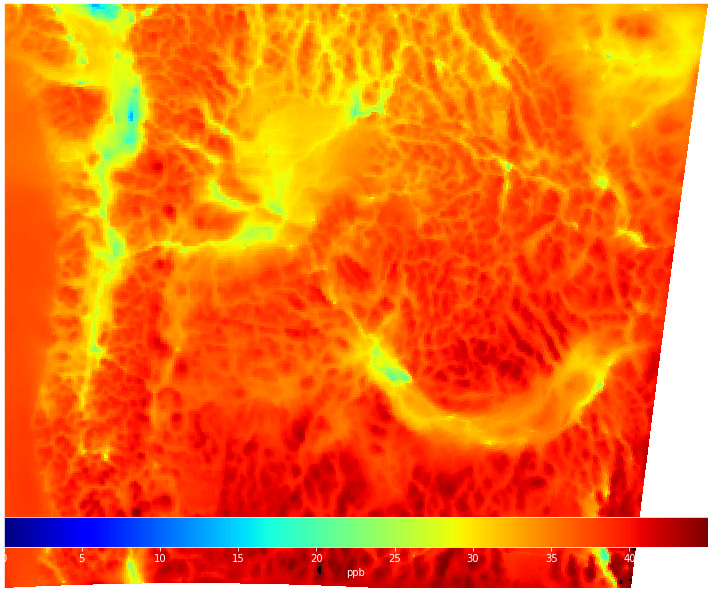
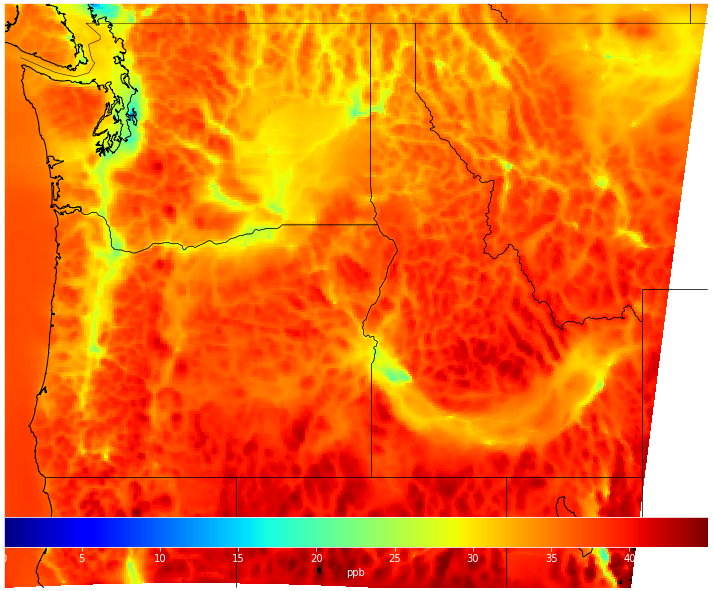
added state lines to check against folium

diff --git a/folium_files/folium_4km_ozone_pm_map.html b/folium_files/folium_4km_ozone_pm_map.html
@@ -15,7 +15,7 @@
     <style>html, body {width: 100%;height: 100%;margin: 0;padding: 0;}</style>
     <style>#map {position:absolute;top:0;bottom:0;right:0;left:0;}</style>
     
-    <style>#map_a94c8bd54dd544949774e8f7ed4713fa {
+    <style>#map_abb32fce33e84e288884179b97cc2ef9 {
         position: relative;
         width: 100.0%;
         height: 100.0%;
@@ -36,7 +36,7 @@
 </head>
 <body>    
     
-    <div class="folium-map" id="map_a94c8bd54dd544949774e8f7ed4713fa" ></div>
+    <div class="folium-map" id="map_abb32fce33e84e288884179b97cc2ef9" ></div>
 </body>
 <script>    
     
@@ -44,8 +44,8 @@
         var bounds = null;
     
 
-    var map_a94c8bd54dd544949774e8f7ed4713fa = L.map(
-        'map_a94c8bd54dd544949774e8f7ed4713fa', {
+    var map_abb32fce33e84e288884179b97cc2ef9 = L.map(
+        'map_abb32fce33e84e288884179b97cc2ef9', {
         center: [45.4072, -117.5004],
         zoom: 7,
         maxBounds: bounds,
@@ -57,7 +57,7 @@
 
     
     
-    var tile_layer_cb32f7e4808c4048a1518ae01ecba1f6 = L.tileLayer(
+    var tile_layer_08f3ff8610d74e3abf9a54f9a0753db4 = L.tileLayer(
         'https://{s}.tile.openstreetmap.org/{z}/{x}/{y}.png',
         {
         "attribution": null,
@@ -67,20 +67,20 @@
         "minZoom": 0,
         "noWrap": false,
         "subdomains": "abc"
-}).addTo(map_a94c8bd54dd544949774e8f7ed4713fa);
+}).addTo(map_abb32fce33e84e288884179b97cc2ef9);
     
-                var lat_lng_popup_e92a28c2f7144a70b2730028de02ce83 = L.popup();
+                var lat_lng_popup_4aedecfa58934eb88164832de675ada3 = L.popup();
                 function latLngPop(e) {
-                    lat_lng_popup_e92a28c2f7144a70b2730028de02ce83
+                    lat_lng_popup_4aedecfa58934eb88164832de675ada3
                         .setLatLng(e.latlng)
                         .setContent("Latitude: " + e.latlng.lat.toFixed(4) +
                                     "<br>Longitude: " + e.latlng.lng.toFixed(4))
-                        .openOn(map_a94c8bd54dd544949774e8f7ed4713fa);
+                        .openOn(map_abb32fce33e84e288884179b97cc2ef9);
                     }
-                map_a94c8bd54dd544949774e8f7ed4713fa.on('click', latLngPop);
+                map_abb32fce33e84e288884179b97cc2ef9.on('click', latLngPop);
             
     
-                var image_overlay_33e43e8c1cde4723af350119e1b894de = L.imageOverlay(
+                var image_overlay_6abd61f132eb4a4fa6aa73bd13da9554 = L.imageOverlay(
                     'https://github.com/jordan-munson/scripts/raw/master/folium_files/4km_basemap_1_O3.png',
                     [[39.81001663208008, -125.88920593261719], [49.81791305541992, -109.6165771484375]],
                     {
@@ -92,10 +92,10 @@
   "opacity": 0.5,
   "zIndex": 1
 }
-                    ).addTo(map_a94c8bd54dd544949774e8f7ed4713fa);
+                    ).addTo(map_abb32fce33e84e288884179b97cc2ef9);
             
     
-                var image_overlay_12ef3685dff44bf589b6f75e0166461d = L.imageOverlay(
+                var image_overlay_8aca03902c834f96b126ed193eb7d4c7 = L.imageOverlay(
                     'https://github.com/jordan-munson/scripts/raw/master/folium_files/4km_basemap_1_PMIJ.png',
                     [[39.81001663208008, -125.88920593261719], [49.81791305541992, -109.6165771484375]],
                     {
@@ -107,53 +107,53 @@
   "opacity": 0.5,
   "zIndex": 1
 }
-                    ).addTo(map_a94c8bd54dd544949774e8f7ed4713fa);
+                    ).addTo(map_abb32fce33e84e288884179b97cc2ef9);
             
     
-                var video_overlay_8345df4adbea49038c5cbc70143eb204 = L.videoOverlay(
+                var video_overlay_7214531eac724633882610da20edc5a4 = L.videoOverlay(
                     'https://github.com/jordan-munson/scripts/raw/master/folium_files/movie_4km_O3_output.webm',
                     [[39.81001663208008, -125.88920593261719], [49.81791305541992, -109.6165771484375]],
                     {"opacity": 0.5, "attribution": "O3_video_map", "loop": true, "autoplay": true}
-                    ).addTo(map_a94c8bd54dd544949774e8f7ed4713fa);
+                    ).addTo(map_abb32fce33e84e288884179b97cc2ef9);
             
     
-                var video_overlay_f2df86e630254093bc4462bc59702a86 = L.videoOverlay(
+                var video_overlay_e6b670c6d4944625bdf7adfc967aa88e = L.videoOverlay(
                     'https://github.com/jordan-munson/scripts/raw/master/folium_files/movie_4km_PMIJ_output.webm',
                     [[39.81001663208008, -125.88920593261719], [49.81791305541992, -109.6165771484375]],
                     {"opacity": 0.5, "attribution": "pm_video_map", "loop": true, "autoplay": true}
-                    ).addTo(map_a94c8bd54dd544949774e8f7ed4713fa);
+                    ).addTo(map_abb32fce33e84e288884179b97cc2ef9);
             
     
-                var video_overlay_ce6ce2561f0d45bf9a4441378ce4b165 = L.videoOverlay(
+                var video_overlay_6c05faaaf58c46d2a0ae4c9afa6f192b = L.videoOverlay(
                     'https://github.com/jordan-munson/scripts/raw/master/folium_files/movie_4km_O3_tiled_output.webm',
                     [[39.81001663208008, -125.88920593261719], [49.81791305541992, -109.6165771484375]],
                     {"opacity": 0.5, "attribution": "O3_tiled_video_map", "loop": true, "autoplay": true}
-                    ).addTo(map_a94c8bd54dd544949774e8f7ed4713fa);
+                    ).addTo(map_abb32fce33e84e288884179b97cc2ef9);
             
     
-                var video_overlay_6581784f7c7b4be8a71abb4ffab1d2ee = L.videoOverlay(
+                var video_overlay_242d012dbe184cd6ae013eb23b7a2244 = L.videoOverlay(
                     'https://github.com/jordan-munson/scripts/raw/master/folium_files/movie_4km_PMIJ_tiled_output.webm',
                     [[39.81001663208008, -125.88920593261719], [49.81791305541992, -109.6165771484375]],
                     {"opacity": 0.5, "attribution": "pm_tiled_video_map", "loop": true, "autoplay": true}
-                    ).addTo(map_a94c8bd54dd544949774e8f7ed4713fa);
+                    ).addTo(map_abb32fce33e84e288884179b97cc2ef9);
             
     
-            var layer_control_39fe8dce644f47529fff677c0327ef4e = {
-                base_layers : { "openstreetmap" : tile_layer_cb32f7e4808c4048a1518ae01ecba1f6, },
-                overlays : { "Ozone" : image_overlay_33e43e8c1cde4723af350119e1b894de,"PM" : image_overlay_12ef3685dff44bf589b6f75e0166461d,"O3_video" : video_overlay_8345df4adbea49038c5cbc70143eb204,"PM_video" : video_overlay_f2df86e630254093bc4462bc59702a86,"O3_tiled_video" : video_overlay_ce6ce2561f0d45bf9a4441378ce4b165,"PM_tiled_video" : video_overlay_6581784f7c7b4be8a71abb4ffab1d2ee, }
+            var layer_control_e47871b800a1467ab8800f432077f039 = {
+                base_layers : { "openstreetmap" : tile_layer_08f3ff8610d74e3abf9a54f9a0753db4, },
+                overlays : { "Ozone" : image_overlay_6abd61f132eb4a4fa6aa73bd13da9554,"PM" : image_overlay_8aca03902c834f96b126ed193eb7d4c7,"O3_video" : video_overlay_7214531eac724633882610da20edc5a4,"PM_video" : video_overlay_e6b670c6d4944625bdf7adfc967aa88e,"O3_tiled_video" : video_overlay_6c05faaaf58c46d2a0ae4c9afa6f192b,"PM_tiled_video" : video_overlay_242d012dbe184cd6ae013eb23b7a2244, }
                 };
             L.control.layers(
-                layer_control_39fe8dce644f47529fff677c0327ef4e.base_layers,
-                layer_control_39fe8dce644f47529fff677c0327ef4e.overlays,
+                layer_control_e47871b800a1467ab8800f432077f039.base_layers,
+                layer_control_e47871b800a1467ab8800f432077f039.overlays,
                 {position: 'topright',
                  collapsed: true,
                  autoZIndex: true
-                }).addTo(map_a94c8bd54dd544949774e8f7ed4713fa);
+                }).addTo(map_abb32fce33e84e288884179b97cc2ef9);
             
-                image_overlay_33e43e8c1cde4723af350119e1b894de.remove();
-                image_overlay_12ef3685dff44bf589b6f75e0166461d.remove();
-                video_overlay_f2df86e630254093bc4462bc59702a86.remove();
-                video_overlay_ce6ce2561f0d45bf9a4441378ce4b165.remove();
-                video_overlay_6581784f7c7b4be8a71abb4ffab1d2ee.remove();
+                image_overlay_6abd61f132eb4a4fa6aa73bd13da9554.remove();
+                image_overlay_8aca03902c834f96b126ed193eb7d4c7.remove();
+                video_overlay_e6b670c6d4944625bdf7adfc967aa88e.remove();
+                video_overlay_6c05faaaf58c46d2a0ae4c9afa6f192b.remove();
+                video_overlay_242d012dbe184cd6ae013eb23b7a2244.remove();
         
 </script>
